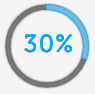
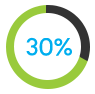
Images and some style stuff
aweawegaweg

diff --git a/Spyderfix Results.html b/Spyderfix Results.html
@@ -125,10 +125,10 @@ $(window).scroll(function(){
             $('#logo').stop().animate({
                 height:'30px'
             },500);
-            $('.nav.row .tooltip img').stop().animate({
-                height:'30px',
-                padding: '0'
-            },500);
+            // $('.nav.row .tooltip img').stop().animate({
+            //     height:'30px',
+            //     padding: '0'
+            // },500);
             $('#pasteHere').stop().animate({
                 fontSize: '12px'
             },500);
@@ -170,27 +170,22 @@ function UpdateTableHeaders() {
            floatingHeader = $(".persist-header", this),
            bodyWidth	  = $("#body").width() - 40;
        
-       if ((scrollTop > offset.top - 90) && (scrollTop < offset.top + el.height()) && (floatingHeader.hasClass('ui-accordion-header-active'))) {
+       if ((scrollTop > offset.top - 92) && (scrollTop < offset.top + el.height() - 92) && (floatingHeader.hasClass('ui-accordion-header-active'))) {
            
        		floatingHeader.css({
        			position: 'fixed',
-				top: '90px',
+				top: '92px',
 				width: bodyWidth,
-				zIndex: '1000'
+				zIndex: '100'
        		});
-           //floatingHeader.addClass("floatingHeader");//.css({
-           //  "visibility": "visible"
-           // });
+           
        } else {
 
        		floatingHeader.css({
        			position: 'relative',
-				top: '0',
-				//width: '100%'
+				top: '0'
        		});
-           // floatingHeader.removeClass("floatingHeader");//.css({
-           //  "visibility": "hidden"
-           // });      
+             
        };
    });
 }
@@ -198,16 +193,7 @@ function UpdateTableHeaders() {
 // DOM Ready      
 $(function() {
 
-   // var clonedHeaderRow;
-
-   // $(".persist-area").each(function() {
-   //     clonedHeaderRow = $(".persist-header", this);
-   //     // clonedHeaderRow
-   //       //.before(clonedHeaderRow.clone())
-   //       //.css("width", clonedHeaderRow.width())
-   //       // .addClass("floatingHeader");
-         
-   // });
+  
    
    $(window)
     .scroll(UpdateTableHeaders)

diff --git a/Spyderfix Results_files/custom.css b/Spyderfix Results_files/custom.css
@@ -19,6 +19,7 @@ h2.blockTitle{
 .nav.row{
 	background-color:#fff;
 	padding: 10px 0;
+	box-shadow: 0 0 10px rgba(100, 100, 100, 0.3);
 }
 #mainWrap, body{
 	font-family:'Open Sans';
@@ -28,9 +29,12 @@ h2.blockTitle{
 text-align: left;
 padding: 10px 20px;
 display: block;
-background-color: #D6F3F8;
+color: #00AEEF;
+font-weight: normal;
+background-color: #FFF;
 border-top: 1px solid #FFF;
-border-bottom: 1px solid #009BC2;
+border-bottom: 1px solid #DBDBDB;
+
 }
 #alphaOverall{
 	margin-top:0;
@@ -52,6 +56,9 @@ padding-bottom: 90px;
 #ui-accordion-17-header-0{
 	border-radius: 0 0 10px 10px;
 }
+#ui-accordion-1-header-0.ui-accordion-header-active,  #ui-accordion-17-header-0.ui-accordion-header-active{
+	border-radius:0 0 0 0;
+}
 .nav img {
 	float:left;
 }
@@ -72,5 +79,41 @@ padding-top: 60px;
 }
 .floatingHeader{
 	position: fixed;
-top: 90px;
+	top: 90px;
 }
+.ui-state-active {
+	border-top: 1px solid #99CA3C;
+	color:#fff;
+	background-color: #99CA3C;
+}
+#miniScores figcaption, section p, .blockDesc, h3.criticalList span, dt.criticalList span  {
+font-family: 'Open Sans';
+}
+.numericalData.value{
+	font-family:Arvo;
+}
+figcaption h3, .smRecentPosts h3, h3{
+	font-family:'Bebas Neue';
+}
+
+#omegaAlphaRender .ipad div{
+	background: url('ipad.png');
+}
+#omegaAlphaRender .firefox div {
+background: url('firefox.png');
+}
+#omegaAlphaRender .safari div {
+background: url('safari.png');
+
+}
+#omegaAlphaRender .iphone div {
+background: url('iphone.png')
+}
+#omegaAlphaRender .nexus div {
+background: url('nexus.png');
+}
+.minimac div {
+background: url('minimac350.png');
+}
+
+
